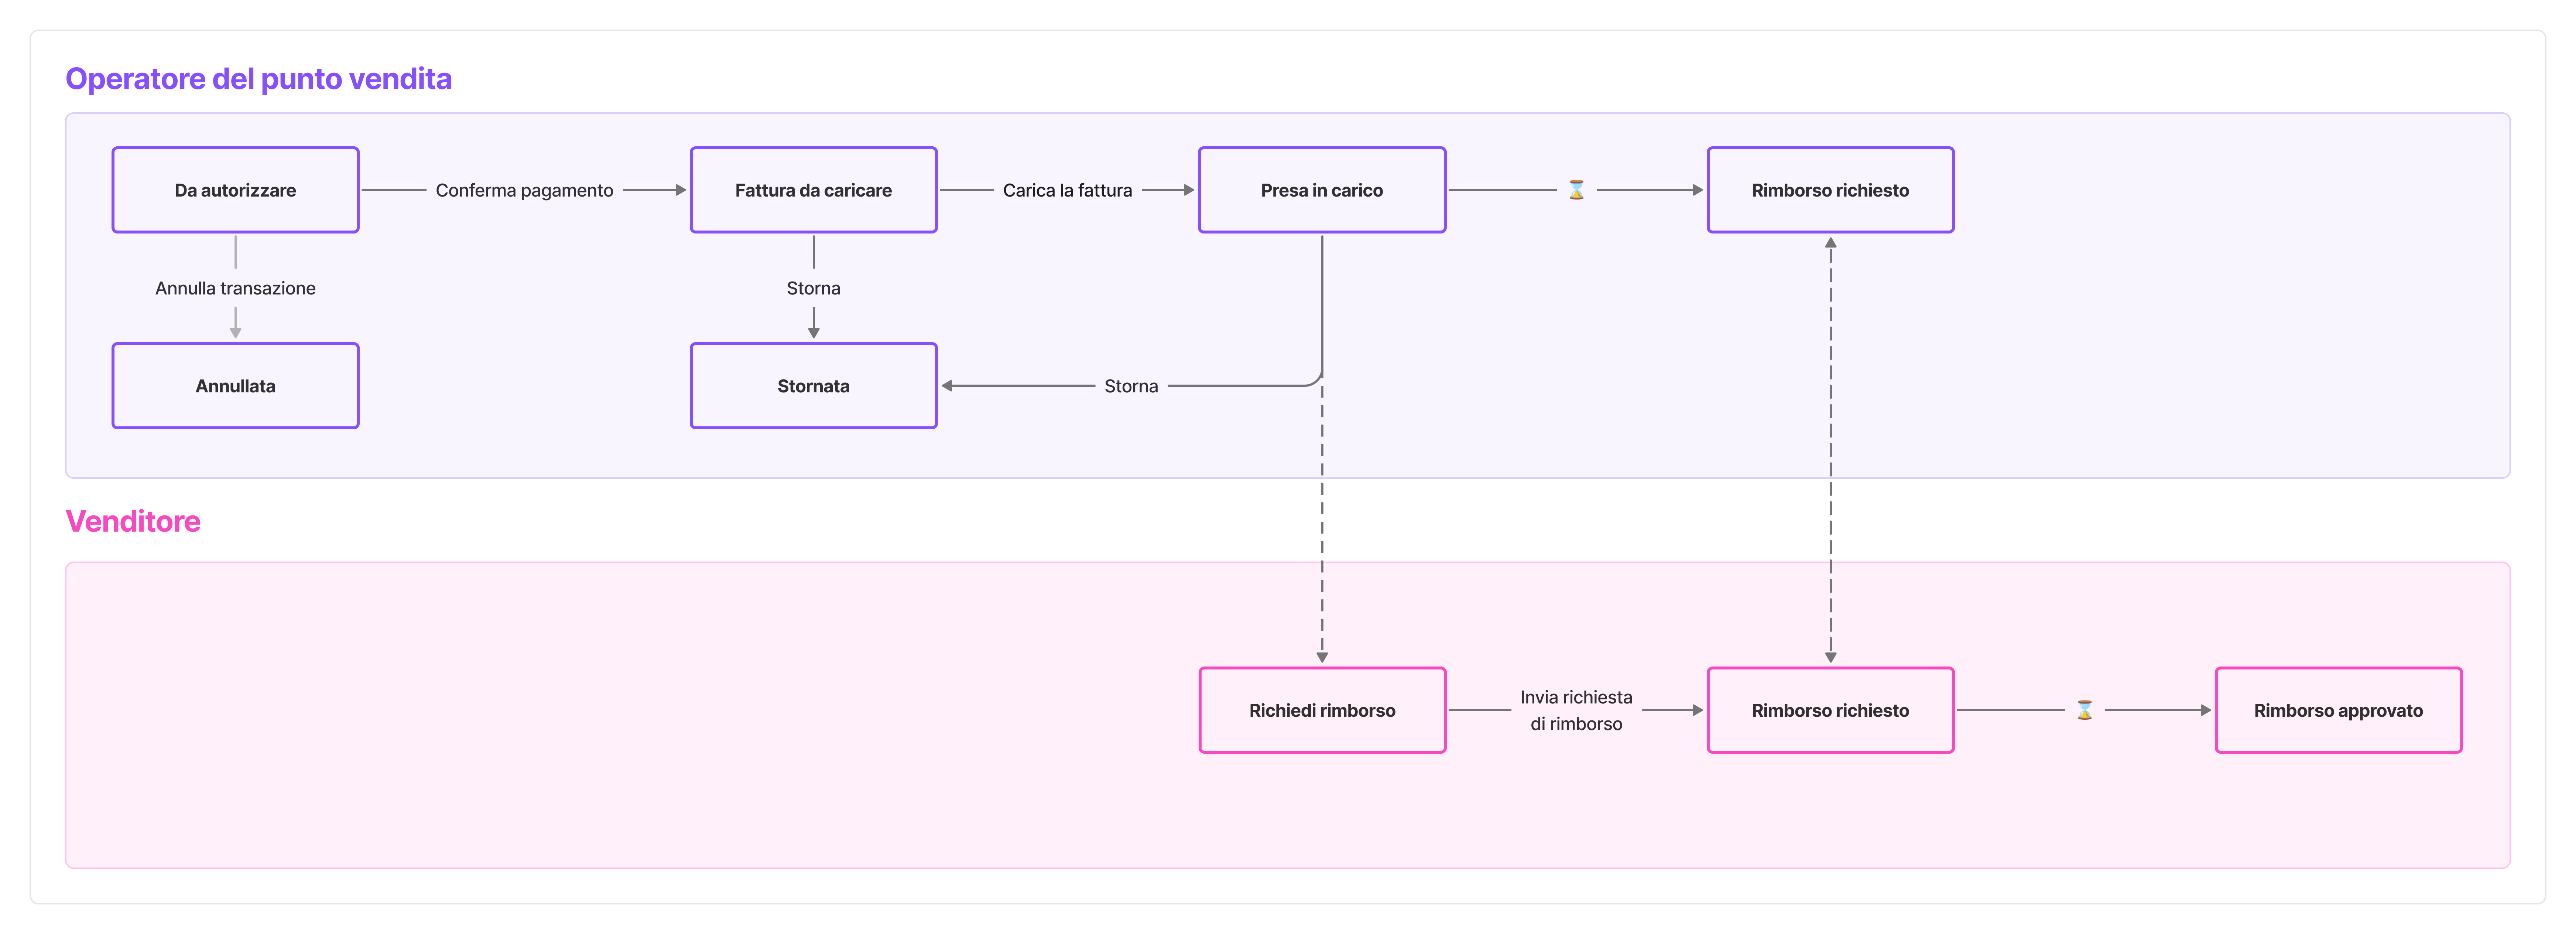
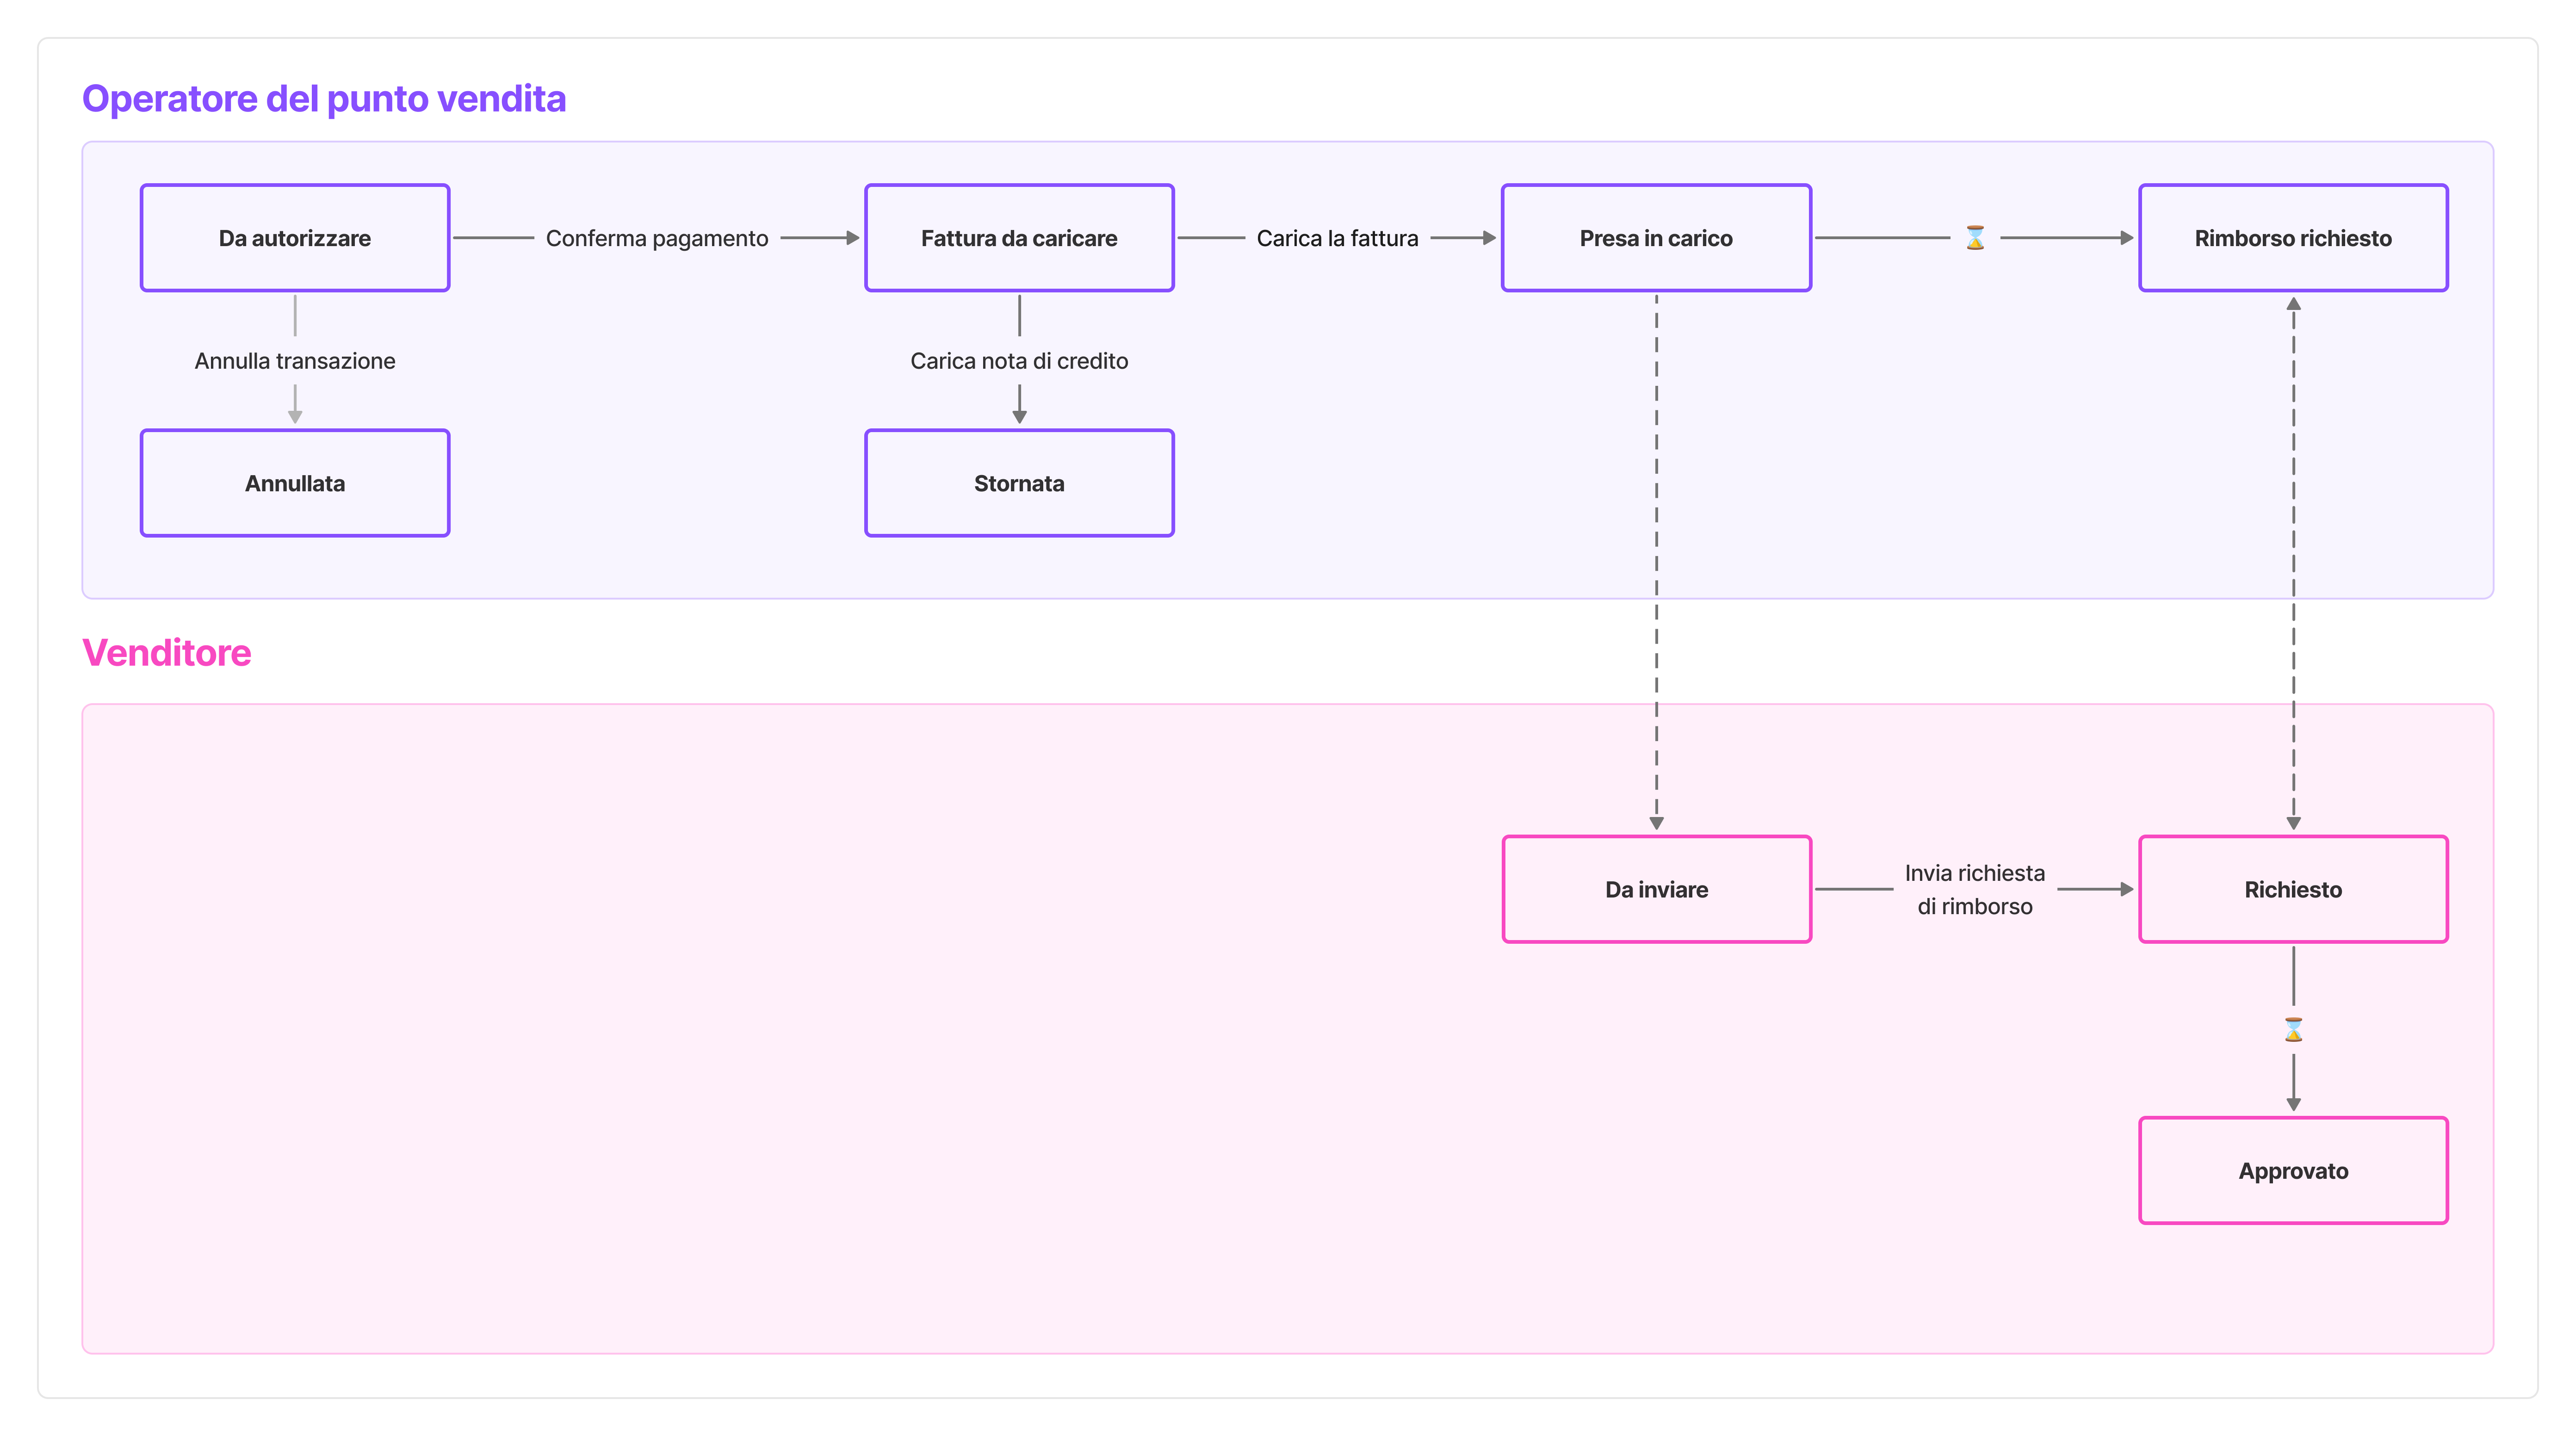
GITBOOK-23: Modifiche agli stati (tolta possibilità di stornare da stato "presa in carico")

diff --git a/docs/VoBCJfPF141Pxuv7pZ1H/riferimenti-tecnici/stati-delle-transazioni.md b/docs/VoBCJfPF141Pxuv7pZ1H/riferimenti-tecnici/stati-delle-transazioni.md
@@ -4,11 +4,11 @@ Il _Portale Esercenti_ utilizza diversi stati per identificare le operazioni.
 
 Di seguito è riportata la definizione degli stati principali che una transazione può assumere nel suo ciclo di vita. A seconda del ruolo dell'utente, la transazione avrà uno stato che spiega qual è l'azione richiesta da compiere, se prevista.
 
-<figure><img src="../.gitbook/assets/Stati.png" alt="Diagramma che spiega il cambio dei vari stati"><figcaption><p>Lo schema riepiloga il passaggio tra i vari stati di una transazione.</p></figcaption></figure>
+<div data-full-width="true"><figure><img src="../.gitbook/assets/Stati.png" alt="Diagramma che spiega il cambio dei vari stati"><figcaption><p>Lo schema riepiloga il passaggio tra i vari stati di una transazione.</p></figcaption></figure></div>
 
 ## Vista degli stati per l'Operatore del punto vendita
 
-<table data-full-width="false"><thead><tr><th width="151.7109375">Stato</th><th>Descrizione</th></tr></thead><tbody><tr><td><strong>Da autorizzare</strong></td><td>La transazione è stata pre-autorizzata: l'Operatore del punto vendita deve confermare che il pagamento si sia concluso con successo o annullarlo.<br><br>L'operatore può anche scaricare e stampare un documento di pre-autorizzazione, per facilitare il pagamento in cassa.</td></tr><tr><td><strong>Annullata</strong></td><td><p>L'Operatore del punto vendita ha annullato la transazione prima della conferma del pagamento. </p><p></p><p>Il buono sconto è stato rilasciato e torna immediatamente disponibile per il cittadino (potrebbero essere necessari fino a 5 minuti se il buono proviene dall'app IO).</p></td></tr><tr><td><strong>Fattura da caricare</strong></td><td>L'operatore del punto vendita deve caricare la fattura relativa all'acquisto. In alternativa, può effettuare uno storno.</td></tr><tr><td><strong>Stornata</strong></td><td><p>In caso di storno, l'Operatore del punto vendita deve caricare la relativa nota di credito.</p><p></p><p>A differenza dello stato "Annullato", in caso di "Storno" il buono non è più riutilizzabile e il cittadino, se ne desidera un altro, deve effettuare una nuova richiesta d'adesione.</p></td></tr><tr><td><strong>Presa in carico</strong></td><td>L'Operatore del punto vendita ha completato i compiti a suo carico. A questo punto il processo passa nelle mani del Venditore, il quale deve approvare la richiesta di rimborso.</td></tr><tr><td><strong>Rimborso richiesto</strong></td><td>Il Venditore ha inviato la richiesta di rimborso, che verrà gestita da Invitalia S.p.A.</td></tr></tbody></table>
+<table data-full-width="false"><thead><tr><th width="151.7109375">Stato</th><th>Descrizione</th></tr></thead><tbody><tr><td><strong>Da autorizzare</strong></td><td>La transazione è stata pre-autorizzata: l'Operatore del punto vendita deve confermare che il pagamento si sia concluso con successo o annullarlo.<br><br>L'operatore può anche scaricare e stampare un documento di pre-autorizzazione, per facilitare il pagamento in cassa.</td></tr><tr><td><strong>Annullata</strong></td><td><p>L'Operatore del punto vendita ha annullato la transazione prima della conferma del pagamento. </p><p></p><p>Il buono sconto è stato rilasciato e torna immediatamente disponibile per il cittadino (potrebbero essere necessari fino a 5 minuti se il buono proviene dall'app IO).</p></td></tr><tr><td><strong>Fattura da caricare</strong></td><td><p>L'operatore del punto vendita deve caricare la fattura relativa all'acquisto. In alternativa, può effettuare uno storno.</p><p></p><p>In caso di storno, l'Operatore del punto vendita deve caricare la relativa nota di credito.</p></td></tr><tr><td><strong>Stornata</strong></td><td><p>La transazione è stata stornata.</p><p></p><p>A differenza dello stato "Annullata", in caso di storno il buono non è più riutilizzabile e il cittadino, se ne desidera un altro, deve effettuare una nuova richiesta d'adesione.</p></td></tr><tr><td><strong>Presa in carico</strong></td><td>L'Operatore del punto vendita ha completato i compiti a suo carico. A questo punto il processo passa nelle mani del Venditore, il quale deve approvare la richiesta di rimborso.</td></tr><tr><td><strong>Rimborso richiesto</strong></td><td>Il Venditore ha inviato la richiesta di rimborso, che verrà gestita da Invitalia S.p.A.</td></tr></tbody></table>
 
 ## Vista degli stati per il Venditore
 